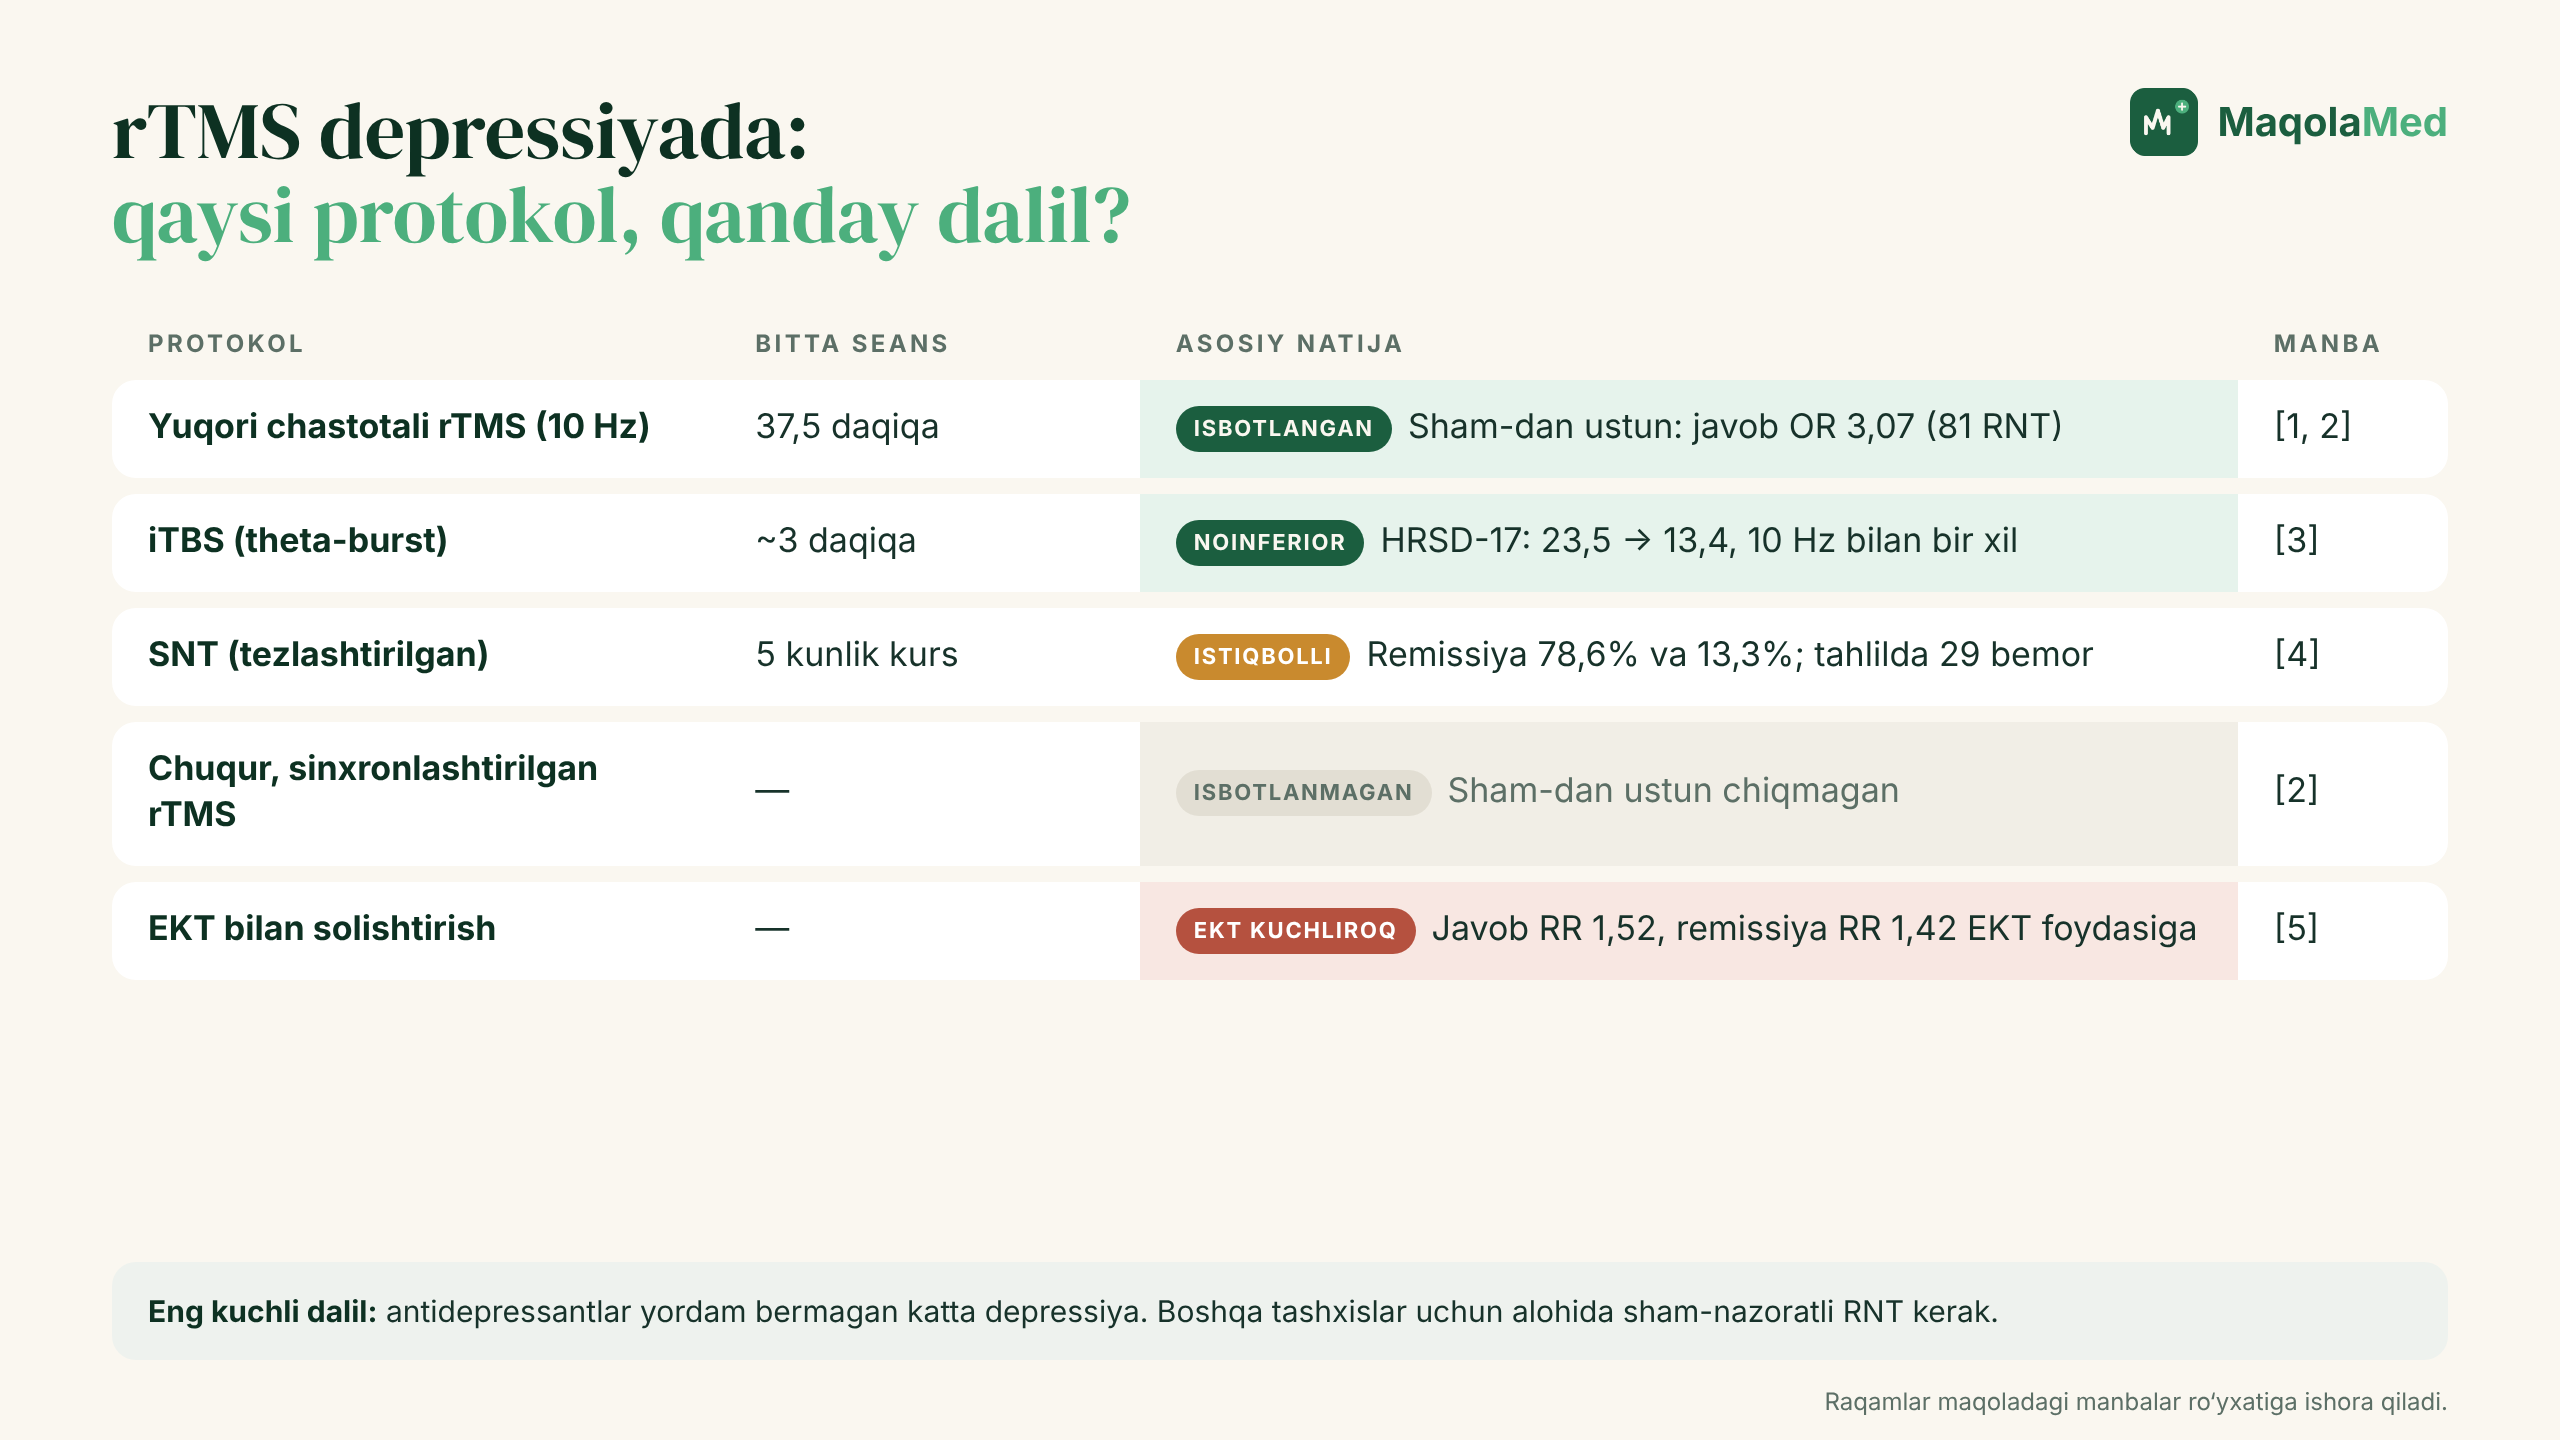
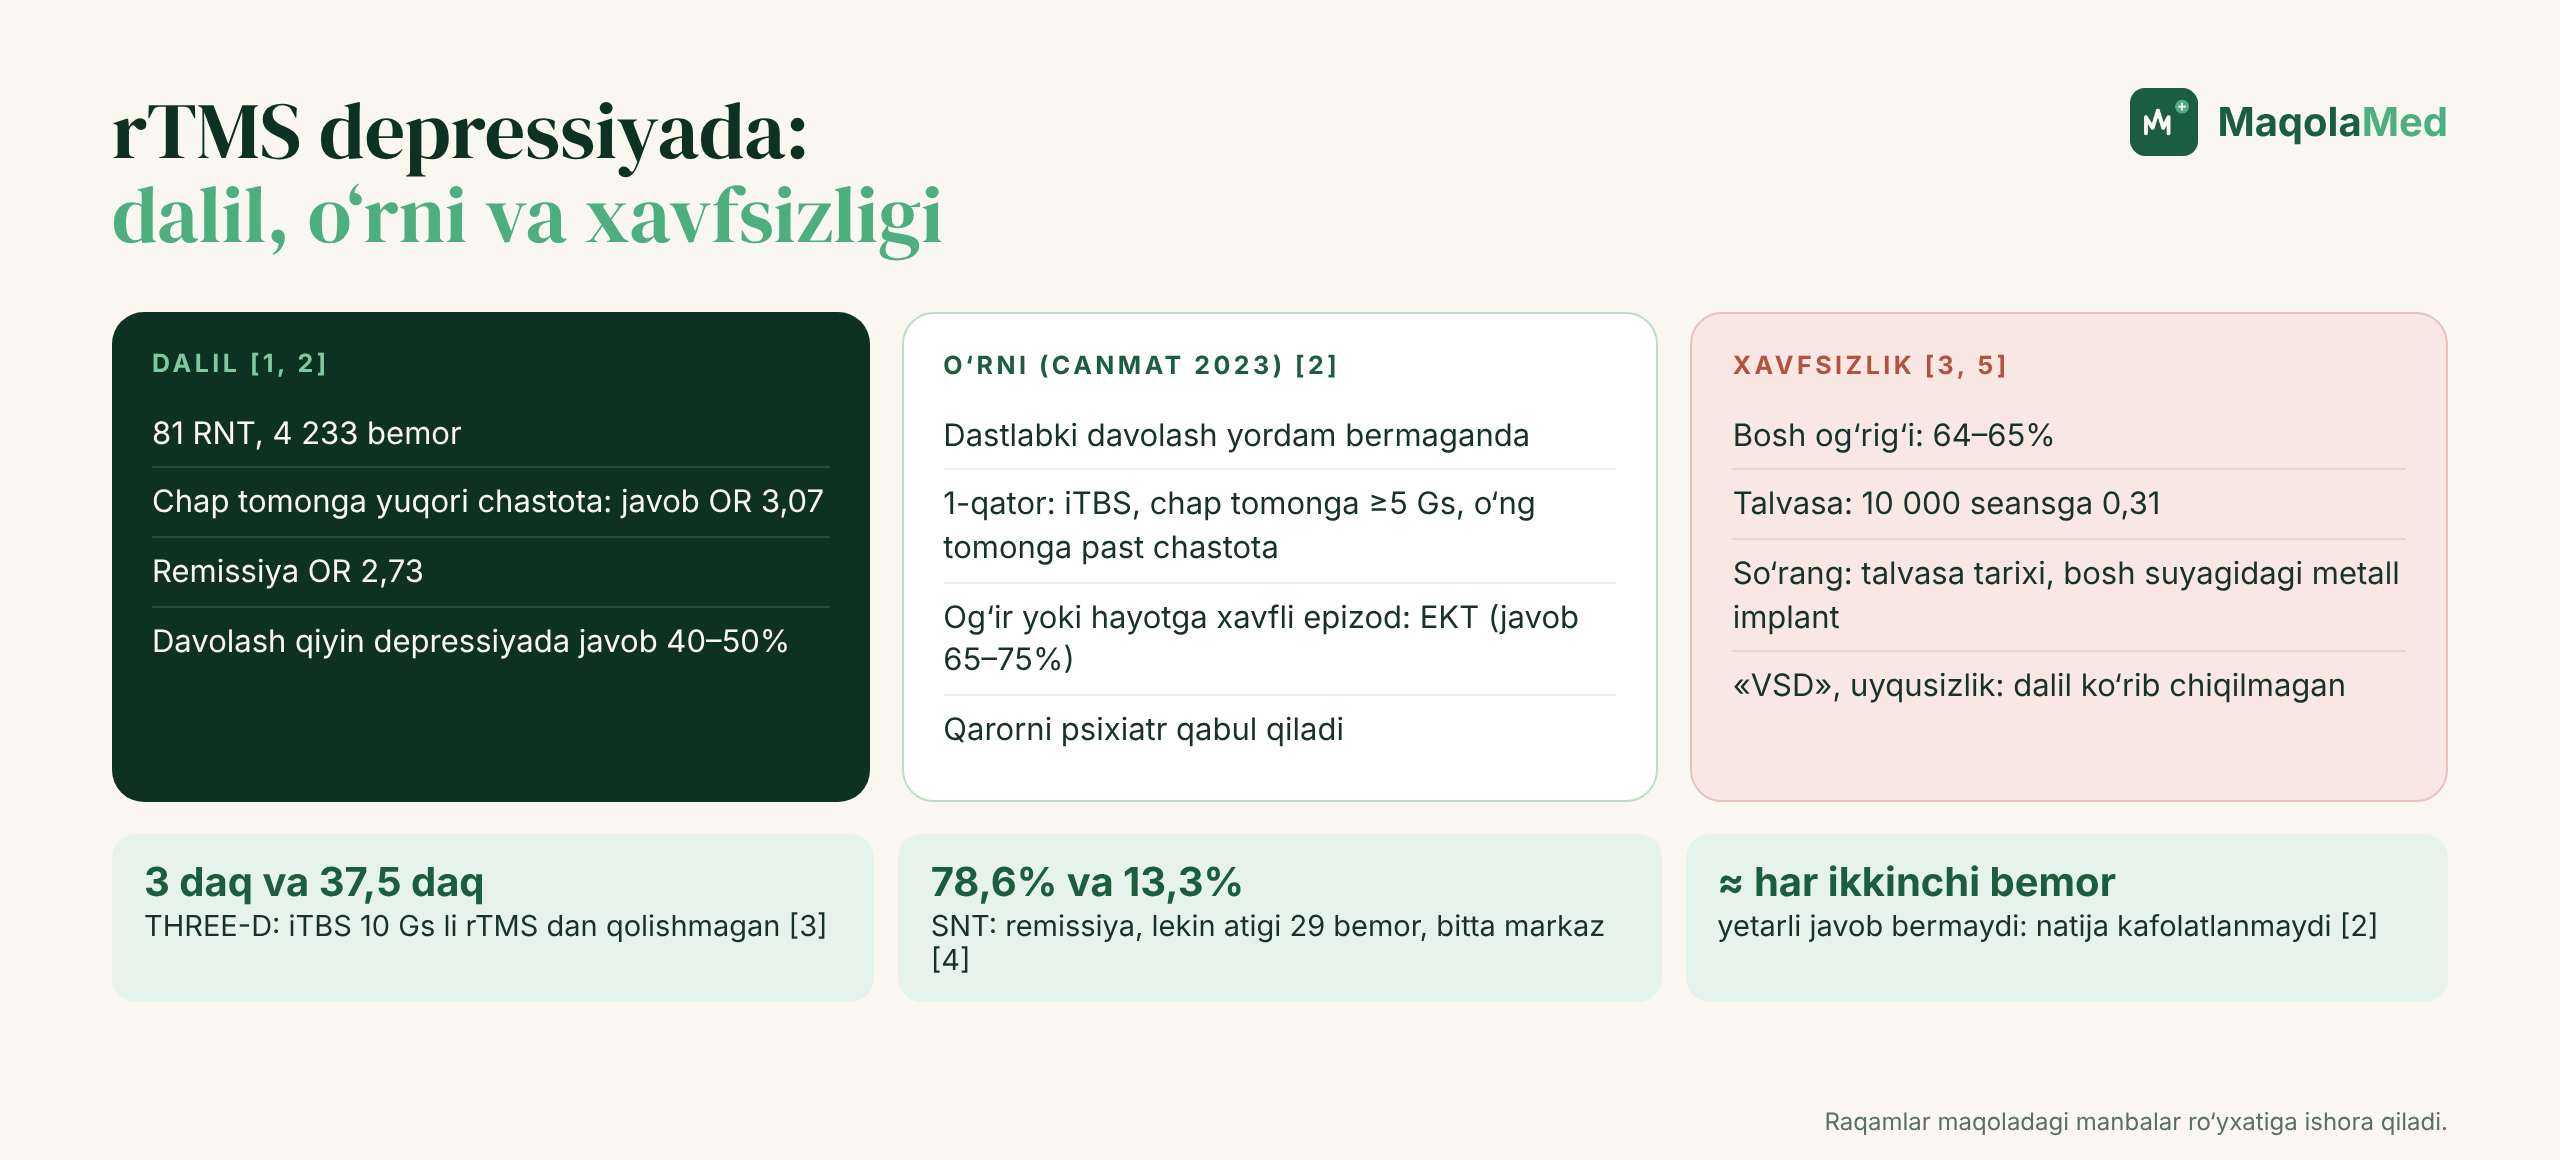
27-dekabr maqolasi qayta yozildi (v2, humanizer): TMS depressiyada — muqovalar, 1 rasm

diff --git a/_manba/2026-12-27/muqova-16x9.html b/_manba/2026-12-27/muqova-16x9.html
@@ -54,6 +54,8 @@ h1 em{font-style:normal;color:var(--mint)}
 .ask{margin-top:16px;display:flex;align-items:center;justify-content:space-between;padding:13px 16px;border-radius:12px;background:var(--green);color:#0D3122;font-weight:700;font-size:17px}
 .ask svg{width:22px;height:22px;stroke:#0D3122;fill:none;stroke-width:2.2;stroke-linecap:round;stroke-linejoin:round}
 
+
+h1{font-size:66px}
 </style>
 </head>
 <body><div class="cover"><div class="grid"></div>
@@ -61,9 +63,9 @@ h1 em{font-style:normal;color:var(--mint)}
 <div class="left"><div class="brand"><img src="logo_dark_bg.png" alt="MaqolaMed"></div>
 <div class="tag" style="margin-top:22px"><span>ILM</span><i></i><span>AMALIYOT</span><i></i><span>ODAM UCHUN</span><span class="line"></span></div>
 <div class="kicker"><span></span>Klinik savol · Psixiatriya</div>
-<h1>Miyani magnit<br>bilan davolash:<br><em>foydasi bormi?</em></h1>
-<div class="sub">rTMS depressiyada ishlaydi, reklamadagi hamma tashxisda emas.</div></div>
-<div class="points"><div class="pt"><div class="ic"><svg viewBox="0 0 24 24"><circle cx="12" cy="12" r="9"/><path d="M9.5 9.5a2.5 2.5 0 1 1 3.5 2.3c-.7.3-1 .8-1 1.5v.7"/><path d="M12 17v.5"/></svg></div><p>rTMS kimga yordam beradi?</p></div><div class="pt"><div class="ic"><svg viewBox="0 0 24 24"><circle cx="12" cy="12" r="9"/><path d="M12 7v5l3 2"/></svg></div><p>3 daqiqalik seans yetarlimi?</p></div><div class="pt"><div class="ic"><svg viewBox="0 0 24 24"><path d="M12 3l9.5 17h-19z"/><path d="M12 10v4.5"/><path d="M12 17.5v.5"/></svg></div><p>Tutqanoq xavfi bormi?</p></div><div class="pt"><div class="ic"><svg viewBox="0 0 24 24"><path d="M9 4a3 3 0 0 0-3 3 3 3 0 0 0-2 5 3 3 0 0 0 2 5 3 3 0 0 0 3 3h0V4z"/><path d="M15 4a3 3 0 0 1 3 3 3 3 0 0 1 2 5 3 3 0 0 1-2 5 3 3 0 0 1-3 3V4z"/></svg></div><p>Nega EKT kuchliroq?</p></div></div>
-<div class="card"><div class="ch"><span class="lbl">DALIL</span><span class="pill">rTMS</span></div>
-<h3>TMS nimada ishlaydi?<small>Sham-nazoratli RNTlar bo‘yicha</small></h3><div class="rows"><div class="row"><span>Depressiya (dori samarasiz)</span><span class="ok">isbotlangan</span></div><div class="row"><span>iTBS, 3 daqiqa</span><span class="ok">teng samara</span></div><div class="row"><span>EKT bilan solishtirganda</span><span class="">EKT kuchliroq</span></div><div class="row"><span>Reklamadagi boshqa tashxislar</span><span class="">dalil kam</span></div></div><div class="quote">«Bu magnit rostdan yordam beradimi?»</div><div class="ask">Javob maqolada<svg viewBox="0 0 24 24"><path d="M5 12h14"/><path d="M13 6l6 6-6 6"/></svg></div></div>
+<h1>Miyani magnit<br>bilan davolash:<br><em>ilmmi yoki reklama?</em></h1>
+<div class="sub">TMS kimga yordam beradi, kimga pulni sovuradi.</div></div>
+<div class="points"><div class="pt"><div class="ic"><svg viewBox="0 0 24 24"><path d="M9 4a3 3 0 0 0-3 3 3 3 0 0 0-2 5 3 3 0 0 0 2 5 3 3 0 0 0 6 1V5a2 2 0 0 0-3-1z"/><path d="M15 4a3 3 0 0 1 3 3 3 3 0 0 1 2 5 3 3 0 0 1-2 5 3 3 0 0 1-6 1"/></svg></div><p>Depressiyada ishlaydimi?</p></div><div class="pt"><div class="ic"><svg viewBox="0 0 24 24"><circle cx="12" cy="12" r="9"/><path d="M9.5 9.5a2.5 2.5 0 1 1 3.5 2.3c-.7.3-1 .9-1 1.7"/><path d="M12 17v.5"/></svg></div><p>Kimga va qachon?</p></div><div class="pt"><div class="ic"><svg viewBox="0 0 24 24"><path d="M12 3l9.5 17h-19z"/><path d="M12 10v4"/><path d="M12 17v.5"/></svg></div><p>Qanchalik xavfsiz?</p></div><div class="pt"><div class="ic"><svg viewBox="0 0 24 24"><circle cx="11" cy="11" r="6"/><path d="M20 20l-4.5-4.5"/></svg></div><p>Reklama nimani va’da qiladi?</p></div></div>
+<div class="card"><div class="ch"><span class="lbl">QISQA JAVOB</span><span class="pill">rTMS</span></div>
+<h3>Dalil nima deydi?<small>Meta-tahlil · CANMAT 2023</small></h3><div class="rows"><div class="row"><span>Depressiya: javob OR</span><span class="ok">3,07</span></div><div class="row"><span>Davolash qiyin depressiya</span><span class="ok">javob 40–50%</span></div><div class="row"><span>Kimga</span><span class="">dastlabki davo yordam bermasa</span></div><div class="row"><span>Og‘ir epizod</span><span class="">EKT samaraliroq</span></div><div class="row"><span>Talvasa</span><span class="ok">0,31 / 10 000 seans</span></div><div class="row"><span>«VSD», uyqusizlik</span><span class="">dalil yo‘q</span></div></div><div class="quote">«20 seans: depressiya, VSD, uyqusizlik»</div><div class="ask">Arziydimi?<svg viewBox="0 0 24 24"><path d="M5 12h14"/><path d="M13 6l6 6-6 6"/></svg></div></div>
 </div></body></html>

diff --git a/_manba/2026-12-27/muqova-instagram-4x5.html b/_manba/2026-12-27/muqova-instagram-4x5.html
@@ -69,6 +69,10 @@ h1{font-size:96px;margin-top:18px}
 .pt{width:auto;flex:1}
 .pt p{font-size:17px}
 
+
+
+
+h1{font-size:90px}
 </style>
 </head>
 <body><div class="cover"><div class="grid"></div>
@@ -76,9 +80,9 @@ h1{font-size:96px;margin-top:18px}
 <div class="left"><div class="brand"><img src="logo_dark_bg.png" alt="MaqolaMed"></div>
 <div class="tag" style="margin-top:22px"><span>ILM</span><i></i><span>AMALIYOT</span><i></i><span>ODAM UCHUN</span><span class="line"></span></div>
 <div class="kicker"><span></span>Klinik savol · Psixiatriya</div>
-<h1>Miyani magnit<br>bilan davolash:<br><em>foydasi bormi?</em></h1>
-<div class="sub">rTMS depressiyada ishlaydi, reklamadagi hamma tashxisda emas.</div></div>
-<div class="points"><div class="pt"><div class="ic"><svg viewBox="0 0 24 24"><circle cx="12" cy="12" r="9"/><path d="M9.5 9.5a2.5 2.5 0 1 1 3.5 2.3c-.7.3-1 .8-1 1.5v.7"/><path d="M12 17v.5"/></svg></div><p>rTMS kimga yordam beradi?</p></div><div class="pt"><div class="ic"><svg viewBox="0 0 24 24"><circle cx="12" cy="12" r="9"/><path d="M12 7v5l3 2"/></svg></div><p>3 daqiqalik seans yetarlimi?</p></div><div class="pt"><div class="ic"><svg viewBox="0 0 24 24"><path d="M12 3l9.5 17h-19z"/><path d="M12 10v4.5"/><path d="M12 17.5v.5"/></svg></div><p>Tutqanoq xavfi bormi?</p></div><div class="pt"><div class="ic"><svg viewBox="0 0 24 24"><path d="M9 4a3 3 0 0 0-3 3 3 3 0 0 0-2 5 3 3 0 0 0 2 5 3 3 0 0 0 3 3h0V4z"/><path d="M15 4a3 3 0 0 1 3 3 3 3 0 0 1 2 5 3 3 0 0 1-2 5 3 3 0 0 1-3 3V4z"/></svg></div><p>Nega EKT kuchliroq?</p></div></div>
-<div class="card"><div class="ch"><span class="lbl">DALIL</span><span class="pill">rTMS</span></div>
-<h3>TMS nimada ishlaydi?<small>Sham-nazoratli RNTlar bo‘yicha</small></h3><div class="rows"><div class="row"><span>Depressiya (dori samarasiz)</span><span class="ok">isbotlangan</span></div><div class="row"><span>iTBS, 3 daqiqa</span><span class="ok">teng samara</span></div><div class="row"><span>EKT bilan solishtirganda</span><span class="">EKT kuchliroq</span></div><div class="row"><span>Reklamadagi boshqa tashxislar</span><span class="">dalil kam</span></div></div><div class="quote">«Bu magnit rostdan yordam beradimi?»</div><div class="ask">Javob maqolada<svg viewBox="0 0 24 24"><path d="M5 12h14"/><path d="M13 6l6 6-6 6"/></svg></div></div>
+<h1>Miyani magnit<br>bilan davolash:<br><em>ilmmi yoki reklama?</em></h1>
+<div class="sub">TMS kimga yordam beradi, kimga pulni sovuradi.</div></div>
+<div class="points"><div class="pt"><div class="ic"><svg viewBox="0 0 24 24"><path d="M9 4a3 3 0 0 0-3 3 3 3 0 0 0-2 5 3 3 0 0 0 2 5 3 3 0 0 0 6 1V5a2 2 0 0 0-3-1z"/><path d="M15 4a3 3 0 0 1 3 3 3 3 0 0 1 2 5 3 3 0 0 1-2 5 3 3 0 0 1-6 1"/></svg></div><p>Depressiyada ishlaydimi?</p></div><div class="pt"><div class="ic"><svg viewBox="0 0 24 24"><circle cx="12" cy="12" r="9"/><path d="M9.5 9.5a2.5 2.5 0 1 1 3.5 2.3c-.7.3-1 .9-1 1.7"/><path d="M12 17v.5"/></svg></div><p>Kimga va qachon?</p></div><div class="pt"><div class="ic"><svg viewBox="0 0 24 24"><path d="M12 3l9.5 17h-19z"/><path d="M12 10v4"/><path d="M12 17v.5"/></svg></div><p>Qanchalik xavfsiz?</p></div><div class="pt"><div class="ic"><svg viewBox="0 0 24 24"><circle cx="11" cy="11" r="6"/><path d="M20 20l-4.5-4.5"/></svg></div><p>Reklama nimani va’da qiladi?</p></div></div>
+<div class="card"><div class="ch"><span class="lbl">QISQA JAVOB</span><span class="pill">rTMS</span></div>
+<h3>Dalil nima deydi?<small>Meta-tahlil · CANMAT 2023</small></h3><div class="rows"><div class="row"><span>Depressiya: javob OR</span><span class="ok">3,07</span></div><div class="row"><span>Davolash qiyin depressiya</span><span class="ok">javob 40–50%</span></div><div class="row"><span>Kimga</span><span class="">dastlabki davo yordam bermasa</span></div><div class="row"><span>Og‘ir epizod</span><span class="">EKT samaraliroq</span></div><div class="row"><span>Talvasa</span><span class="ok">0,31 / 10 000 seans</span></div><div class="row"><span>«VSD», uyqusizlik</span><span class="">dalil yo‘q</span></div></div><div class="quote">«20 seans: depressiya, VSD, uyqusizlik»</div><div class="ask">Arziydimi?<svg viewBox="0 0 24 24"><path d="M5 12h14"/><path d="M13 6l6 6-6 6"/></svg></div></div>
 </div></body></html>

diff --git a/_manba/2026-12-27/1-rasm.html b/_manba/2026-12-27/1-rasm.html
@@ -31,15 +31,21 @@ td.warn{background:var(--redbg)}
 .note b{color:var(--deep)}
 .src{position:absolute;right:56px;bottom:12px;font-size:12px;color:var(--muted)}
 .arrow{stroke:var(--emerald);stroke-width:2.2;fill:none}
-</style></head><body>
-<style>:root{--H:720px} td{font-size:17px}</style>
-<div class="fig"><div class="top"><h1>rTMS depressiyada:<br><em>qaysi protokol, qanday dalil?</em></h1><div class="brand"><img src="icon.png" alt=""><span>Maqola<b>Med</b></span></div></div>
-<table><tr><th style="width:26%">Protokol</th><th style="width:18%">Bitta seans</th><th>Asosiy natija</th><th style="width:9%">Manba</th></tr>
-<tr><td>Yuqori chastotali rTMS (10 Hz)</td><td>37,5 daqiqa</td><td class="new"><span class="badge b-new">ISBOTLANGAN</span>Sham-dan ustun: javob OR 3,07 (81 RNT)</td><td>[1, 2]</td></tr>
-<tr><td>iTBS (theta-burst)</td><td>~3 daqiqa</td><td class="new"><span class="badge b-new">NOINFERIOR</span>HRSD-17: 23,5 → 13,4, 10 Hz bilan bir xil</td><td>[3]</td></tr>
-<tr><td>SNT (tezlashtirilgan)</td><td>5 kunlik kurs</td><td><span class="badge b-amb">ISTIQBOLLI</span>Remissiya 78,6% va 13,3%; tahlilda 29 bemor</td><td>[4]</td></tr>
-<tr><td>Chuqur, sinxronlashtirilgan rTMS</td><td>—</td><td class="same"><span class="badge b-same">ISBOTLANMAGAN</span>Sham-dan ustun chiqmagan</td><td>[2]</td></tr>
-<tr><td>EKT bilan solishtirish</td><td>—</td><td class="warn"><span class="badge b-red">EKT KUCHLIROQ</span>Javob RR 1,52, remissiya RR 1,42 EKT foydasiga</td><td>[5]</td></tr>
-</table>
-<div class="note"><b>Eng kuchli dalil:</b> antidepressantlar yordam bermagan katta depressiya. Boshqa tashxislar uchun alohida sham-nazoratli RNT kerak.</div>
+</style></head><body><style>:root{--H:580px}
+.cols{display:grid;grid-template-columns:repeat(3,1fr);gap:16px}
+.col{border-radius:16px;padding:18px 20px;font-size:15.5px;line-height:1.4}
+.col h2{font-size:12.5px;letter-spacing:.14em;text-transform:uppercase;margin-bottom:8px}
+.col ul{list-style:none}.col li{padding:6px 0;border-bottom:1px solid rgba(0,0,0,.07)}.col li:last-child{border-bottom:0}
+.c1{background:var(--deep);color:var(--cream)}.c1 h2{color:var(--mint)}.c1 li{border-color:rgba(255,255,255,.12)}
+.c2{background:#fff;border:1.5px solid #BFDCCB}.c2 h2{color:var(--emerald)}
+.c3{background:var(--redbg);border:1.5px solid #E8C3BA}.c3 h2{color:var(--red)}
+.kbar{margin-top:16px;display:grid;grid-template-columns:repeat(3,1fr);gap:12px}
+.k{border-radius:12px;padding:12px 16px;font-size:14.5px;background:#E6F3EC}.k b{display:block;font-size:20px;margin-bottom:2px;color:var(--emerald)}
+</style>
+<div class="fig"><div class="top"><h1>rTMS depressiyada:<br><em>dalil, o‘rni va xavfsizligi</em></h1><div class="brand"><img src="icon.png" alt=""><span>Maqola<b>Med</b></span></div></div>
+<div class="cols">
+<div class="col c1"><h2>Dalil [1, 2]</h2><ul><li>81 RNT, 4 233 bemor</li><li>Chap tomonga yuqori chastota: javob OR 3,07</li><li>Remissiya OR 2,73</li><li>Davolash qiyin depressiyada javob 40–50%</li></ul></div>
+<div class="col c2"><h2>O‘rni (CANMAT 2023) [2]</h2><ul><li>Dastlabki davolash yordam bermaganda</li><li>1-qator: iTBS, chap tomonga ≥5 Gs, o‘ng tomonga past chastota</li><li>Og‘ir yoki hayotga xavfli epizod: EKT (javob 65–75%)</li><li>Qarorni psixiatr qabul qiladi</li></ul></div>
+<div class="col c3"><h2>Xavfsizlik [3, 5]</h2><ul><li>Bosh og‘rig‘i: 64–65%</li><li>Talvasa: 10 000 seansga 0,31</li><li>So‘rang: talvasa tarixi, bosh suyagidagi metall implant</li><li>«VSD», uyqusizlik: dalil ko‘rib chiqilmagan</li></ul></div></div>
+<div class="kbar"><div class="k"><b>3 daq va 37,5 daq</b>THREE-D: iTBS 10 Gs li rTMS dan qolishmagan [3]</div><div class="k"><b>78,6% va 13,3%</b>SNT: remissiya, lekin atigi 29 bemor, bitta markaz [4]</div><div class="k"><b>≈ har ikkinchi bemor</b>yetarli javob bermaydi: natija kafolatlanmaydi [2]</div></div>
 <div class="src">Raqamlar maqoladagi manbalar ro‘yxatiga ishora qiladi.</div></div></body></html>
